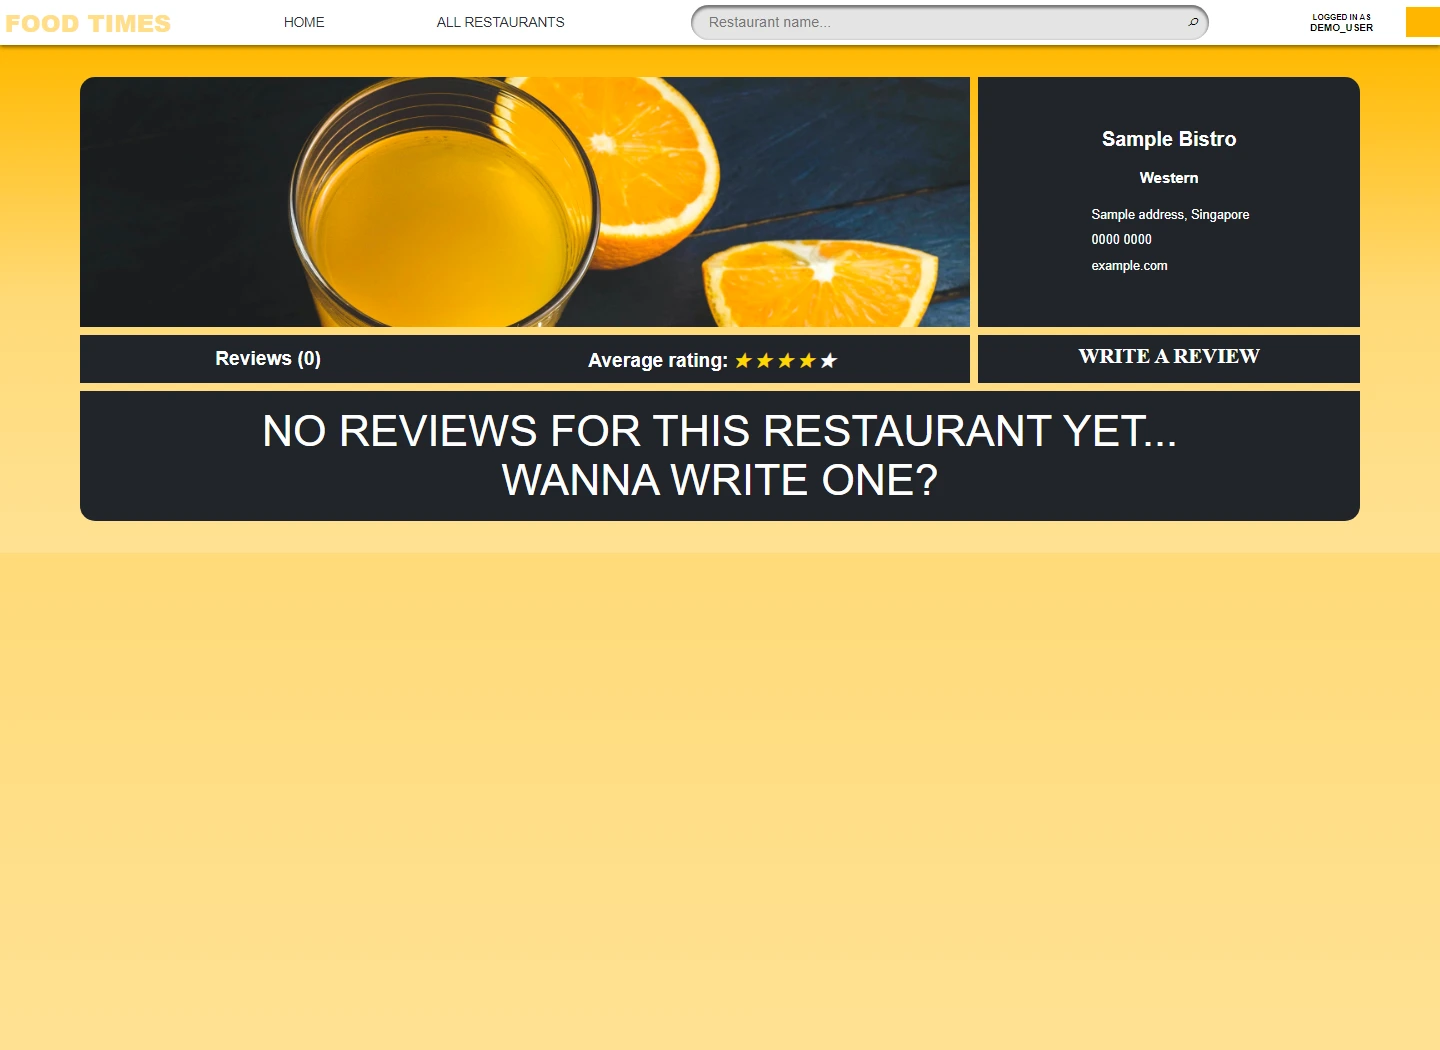
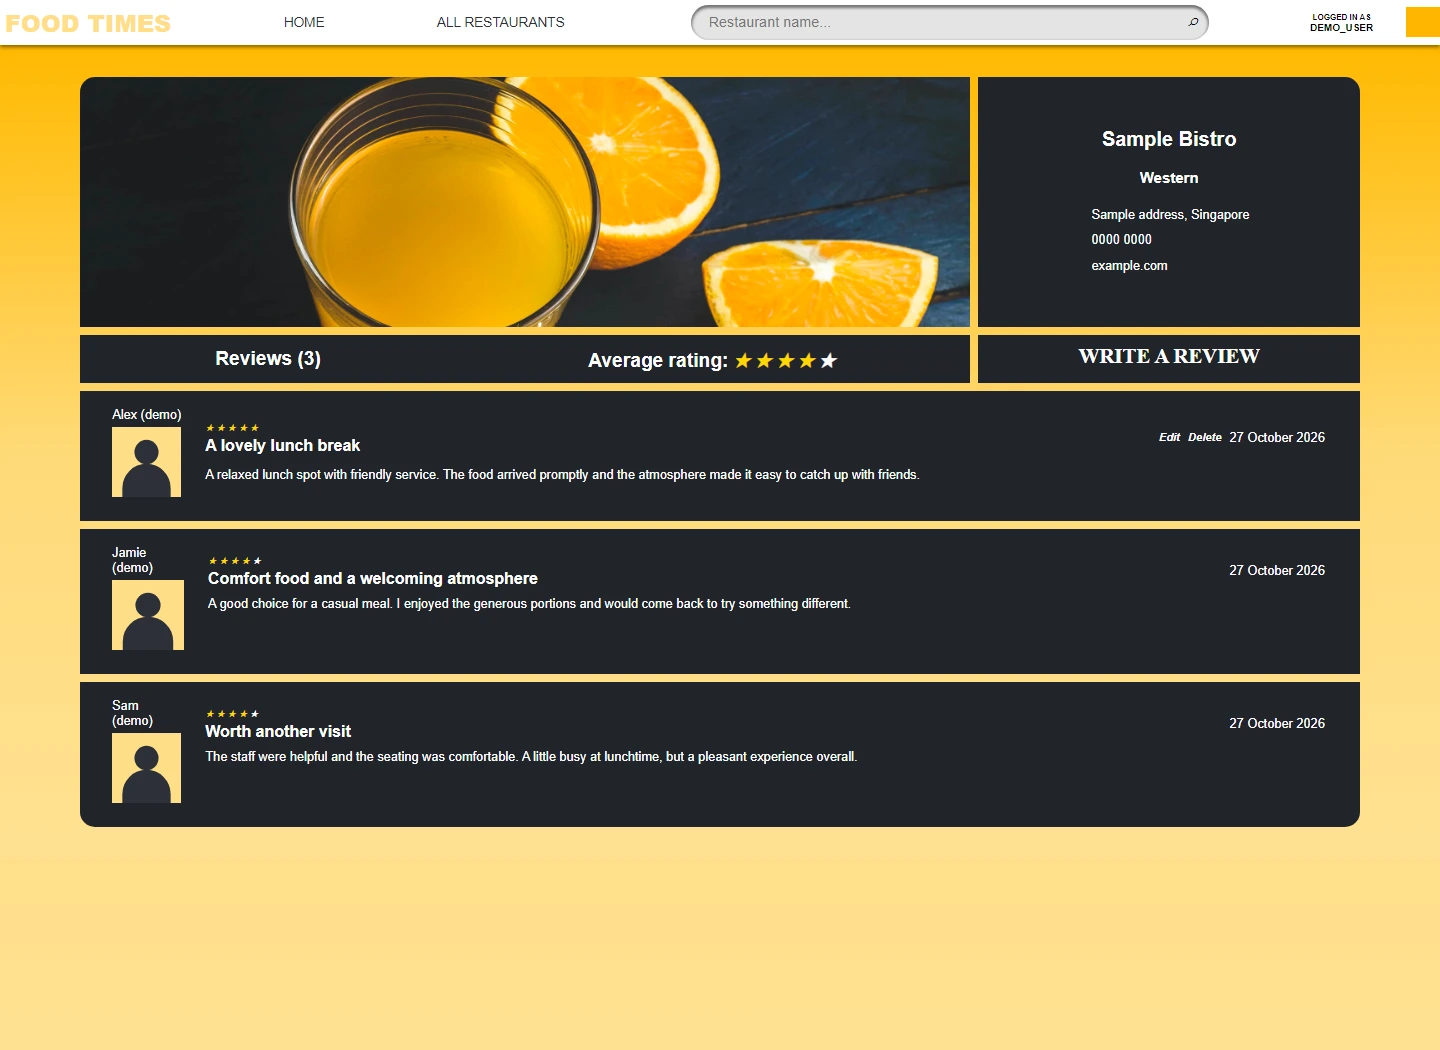
Add image preview modal and fix Food Times screenshots

Changed region(s): [[0.0, 0.1524, 1.0, 0.7924]]

diff --git a/image-viewer.js b/image-viewer.js
@@ -1,0 +1,37 @@
+(() => {
+    const dialog = document.getElementById("image-viewer");
+    const image = document.getElementById("image-viewer-image");
+    const title = document.getElementById("image-viewer-title");
+    const closeButton = document.getElementById("image-viewer-close");
+    let opener;
+
+    document.addEventListener("click", (event) => {
+        const target = event.target.closest("#content a, #content img");
+        if (!target) return;
+        const link = target.closest("a");
+        const thumbnail = target.closest("[data-screenshot]");
+        const selected = thumbnail?.closest(".screenshot-gallery").querySelector(".screenshot-full img");
+        const sourceImage = selected || (target.matches("img") ? target : target.querySelector("img"));
+        const source = selected?.src || link?.href || sourceImage?.src;
+        if (!source || !/\.(?:png|jpe?g|webp|gif|svg|avif)(?:[?#]|$)/i.test(source)) return;
+        event.preventDefault();
+        opener = thumbnail || link || document.activeElement;
+        image.src = source;
+        image.alt = sourceImage?.alt || "Project image";
+        title.textContent = target.closest(".screenshot-gallery")?.querySelector(".screenshot-title")?.textContent || image.alt;
+        dialog.showModal();
+        closeButton.focus();
+    });
+    closeButton.addEventListener("click", () => dialog.close());
+    dialog.addEventListener("cancel", (event) => { event.preventDefault(); dialog.close(); });
+    dialog.addEventListener("click", (event) => {
+        if (event.target !== dialog) return;
+        const bounds = dialog.getBoundingClientRect();
+        if (event.clientX < bounds.left || event.clientX > bounds.right || event.clientY < bounds.top || event.clientY > bounds.bottom) dialog.close();
+    });
+    dialog.addEventListener("close", () => {
+        image.removeAttribute("src");
+        if (opener?.isConnected) opener.focus();
+    });
+    window.addEventListener("hashchange", () => { if (dialog.open) dialog.close(); });
+})();

diff --git a/portfolio-data.js b/portfolio-data.js
@@ -1287,7 +1287,7 @@ window.portfolioData = {
         "Express sessions",
         "Multer"
       ],
-      "previewNote": "Offline screenshots of the original EJS templates, CSS hover effects and login/sign-up interactions, using fictional data. Bundled imagery stands in for restaurant photos; the remote logo and icons use text equivalents and external fonts are unavailable. Account forms are shown without submitting them or connecting to a database or email service.",
+      "previewNote": "Offline screenshots of the original EJS templates, CSS hover effects and login/sign-up interactions, using fictional data. Bundled imagery stands in for restaurant photos; the remote logo and icons use text equivalents and external fonts are unavailable. Preview-only layout fixes keep the login and sign-up headings readable. Reviews are fictional. Account forms are shown without submitting them or connecting to a database or email service.",
       "screenshots": [
         {
           "src": "./pictures/food-times/01-home.webp",
@@ -1340,7 +1340,7 @@ window.portfolioData = {
           "width": 1440,
           "height": 1050,
           "title": "Restaurant details",
-          "caption": "The original detail template shows location, contact information and review actions. Sample restaurant data and an empty review state are used.",
+          "caption": "The original detail template shows location, contact information and review actions. Three fictional reviews show ratings, review text and the signed-in author’s edit/delete actions.",
           "alt": "Restaurant details: The original detail template shows location, contact information and review actions. Sample restaurant data and an empty review state are used."
         },
         {

diff --git a/workspace.css b/workspace.css
@@ -1170,6 +1170,21 @@ noscript {
     width: 100%;
     height: auto;
 }
+.image-viewer {
+    margin: auto;
+    padding: 0;
+    border: 1px solid #484848;
+    border-radius: 14px;
+    background: var(--panel, #222);
+    color: var(--text, #eee);
+    max-width: calc(100vw - 32px);
+    max-height: calc(100dvh - 32px);
+    overflow: auto;
+}
+.image-viewer::backdrop { background: rgb(0 0 0 / 78%); backdrop-filter: blur(4px); }
+.image-viewer-toolbar { display: flex; align-items: center; justify-content: space-between; gap: 20px; padding: 10px 12px 10px 18px; }
+#image-viewer-title { font-size: 13px; max-width: 70vw; overflow: hidden; white-space: nowrap; text-overflow: ellipsis; }
+#image-viewer-image { display: block; width: auto; height: auto; max-width: min(1600px, calc(100vw - 34px)); max-height: calc(100dvh - 96px); object-fit: contain; margin: 0 auto; }
 .screenshot-viewer figcaption {
     border-top: 1px solid #363636;
     padding: 15px 17px;

diff --git a/index.html b/index.html
@@ -351,6 +351,11 @@
             aria-live="polite"
             id="view-status"
         ></p>
+        <dialog class="image-viewer" id="image-viewer" aria-label="Image preview">
+            <div class="image-viewer-toolbar"><span id="image-viewer-title">Image preview</span><button class="icon-button" id="image-viewer-close" type="button" aria-label="Close image preview" autofocus><svg aria-hidden="true"><use href="#i-close" /></svg></button></div>
+            <img id="image-viewer-image" alt="" />
+        </dialog>
+        <script src="./image-viewer.js" defer></script>
         <dialog class="command-palette" id="command-palette" aria-label="Quick switcher">
             <div class="palette-search-row">
                 <svg aria-hidden="true"><use href="#i-search" /></svg>

diff --git a/workspace.js b/workspace.js
@@ -209,7 +209,7 @@ $("#sidebar-toggle").addEventListener("click", () => setSidebar(mobile.matches ?
 $("#sidebar-backdrop").addEventListener("click", () => setSidebar(false));
 $("#details-toggle").addEventListener("click", () => setDetails(!document.body.classList.contains("details-open")));
 document.addEventListener("keydown", (event) => {
-    if (event.key === "Escape" && !$("#command-palette")?.open) {
+    if (event.key === "Escape" && !$("#command-palette")?.open && !$("#image-viewer")?.open) {
         if (document.body.classList.contains("mobile-sidebar-open")) { setSidebar(false); lastNavigationFocus?.focus(); }
         if (window.innerWidth < 1280) setDetails(false);
     }

diff --git a/README.md b/README.md
@@ -15,6 +15,7 @@ Alternatively, run `node server.mjs` and open http://localhost:3000.
 - `workspace.js`: project navigation, screenshot galleries, local search and fixed sidebar links.
 - `theme.js`: Moonlight/Sunshine theme selection, restored before styles load and remembered locally.
 - `command-palette.js`: Ctrl+K / Cmd+K quick switcher for projects, pages, profile links and themes. Use arrow keys and Enter; Escape closes the native modal. The caption shortcut also opens it.
+- `image-viewer.js`: opens project images and full-size links in an on-page modal. Close with the X button, Escape or the backdrop; focus returns to the opener.
 - `portfolio-data.js`: all eleven project descriptions, technology explanations, screenshots and biography. Edit this file to change project content.
 - `pictures/`: project images and thumbnails.
 
@@ -39,6 +40,8 @@ SproutTeach and Envorya POS retain their screenshot walkthroughs and frontend/ba
 
 `pictures/{fuzzer,spacefartz,just-mbap,food-times}/provenance.json` records source commits and preview limitations. `tools/render-added-projects.cjs` produces WebP assets and thumbnails; its EJS screenshots run in an isolated headless browser, with no desktop interaction. Source checkouts and preview dependencies remain in ignored `tmp/`.
 
+Food Times previews include a CSS layout repair for login/sign-up: horizontal headings replace the old vertical headings with negative letter spacing, which collapsed without the remote font. The sliding panels remain. Restaurant details contain three fictional reviews with generated neutral avatars; no reviews or account forms are submitted to a service.
+
 ## Publish
 
-Deploy `index.html`, `portfolio-data.js`, `workspace.js`, `theme.js`, `command-palette.js`, `workspace.css`, `favicon.svg` and `pictures/` to GitHub Pages or another static host. No Node server is needed in production.
+Deploy `index.html`, `portfolio-data.js`, `workspace.js`, `theme.js`, `command-palette.js`, `image-viewer.js`, `workspace.css`, `favicon.svg` and `pictures/` to GitHub Pages or another static host. No Node server is needed in production.
